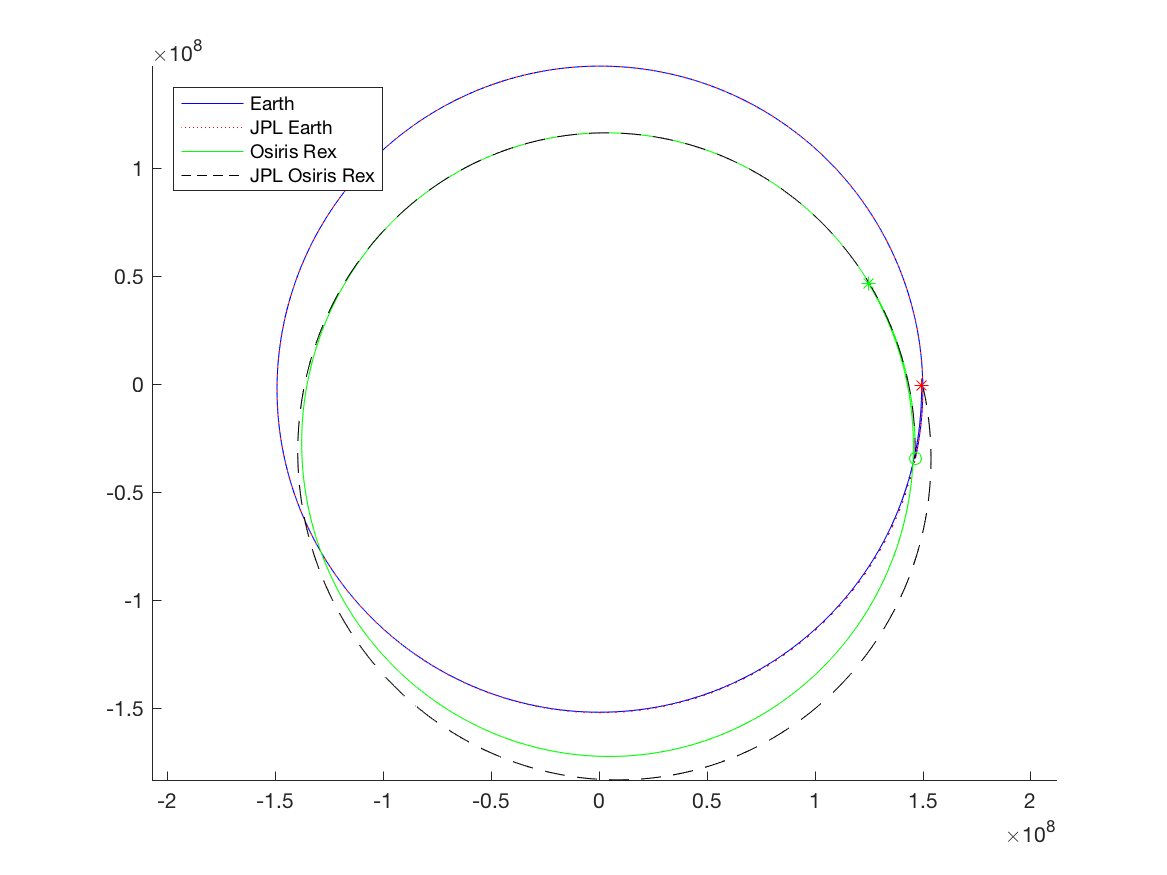
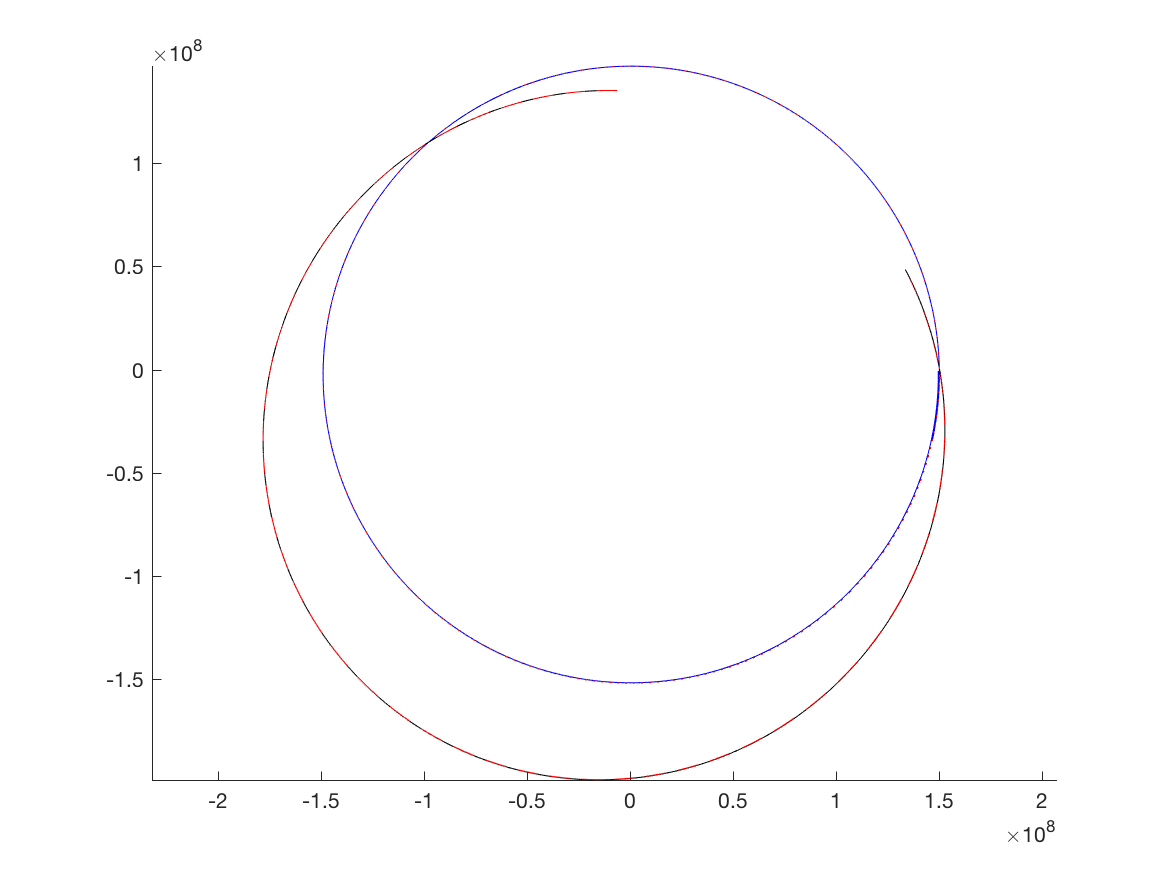
Added analysis and messed with plotting

diff --git a/project.m b/project.m
@@ -108,32 +108,40 @@ Bennu_v0 = VE_Bennu(1,:); %km/s
 OR_x0 = E_OR(1,:); %km
 OR_v0 = VE_OR(1,:); %km/s
 
-hold on; axis equal;
+figure;axis equal;  hold on;
 %h1 = plot(Sun_pos(:,1),Sun_pos(:,2),'r','DisplayName','Sun');
 %plot(Sun_x0(1),Sun_x0(2),'r*');
 %plot(Sun_pos(end,1),Sun_pos(end,2),'ro');
-h2 = plot(Earth_pos(:,1),Earth_pos(:,2),'b','DisplayName','Earth');
-h3 = plot(E_Earth(1:379,1),E_Earth(1:379,2),':r','DisplayName','JPL Earth');
+plot3(Earth_pos(:,1),Earth_pos(:,2),Earth_pos(:,3),'b','DisplayName','Earth');
+plot3(E_Earth(1:379,1),E_Earth(1:379,2),E_Earth(1:379,3),':r','DisplayName','JPL Earth');
 %plot(Earth_x0(1),Earth_x0(2),'b*');
-plot(Earth_pos(end,1),Earth_pos(end,2),'r*');
-%plot(Jupiter_pos(:,1),Jupiter_pos(:,2),'r');
-%plot(E_Jupiter(1:379,1),E_Jupiter(1:379,2),'--b');
-%h3 = plot(Bennu_pos(:,1),Bennu_pos(:,2),'k','DisplayName','Bennu');
-%plot(E_Bennu(1:379,1),E_Bennu(1:379,2),'--r');
-%plot(Bennu_x0(1),Bennu_x0(2),'k*');
-%plot(Bennu_pos(end,1),Bennu_pos(end,2),'ko');
-h4 = plot(OR_pos(:,1),OR_pos(:,2),'g','DisplayName','Osiris Rex');
-h5 = plot(E_OR(1:379,1),E_OR(1:379,2),'--k','DisplayName','JPL Osiris Rex');
-plot(OR_x0(1),OR_x0(2),'go');
-plot(OR_pos(end,1),OR_pos(end,2),'g*');
-legend([h2 h3 h4 h5],'Location','Northwest');
+% plot(Earth_pos(end,1),Earth_pos(end,2),'r*');
+% %plot(Jupiter_pos(:,1),Jupiter_pos(:,2),'r');
+% %plot(E_Jupiter(1:379,1),E_Jupiter(1:379,2),'--b');
+%h3 = plot3(Bennu_pos(:,1),Bennu_pos(:,2),Bennu_pos(:,3),'k','DisplayName','Bennu');
+%plot3(E_Bennu(1:379,1),E_Bennu(1:379,2),E_Bennu(1:379,3),'--r');
+% %plot3(Bennu_x0(1),Bennu_x0(2),'k*');
+% %plot3(Bennu_pos(end,1),Bennu_pos(end,2),'ko');
+% h4 = plot(OR_pos(:,1),OR_pos(:,2),'g','DisplayName','Osiris Rex');
+% plot(OR_pos(145,1),OR_pos(145,2),'b*');
+% h5 = plot(E_OR(1:379,1),E_OR(1:379,2),'--k','DisplayName','JPL Osiris Rex');
+% plot(OR_x0(1),OR_x0(2),'go');
+% plot(OR_pos(end,1),OR_pos(end,2),'g*');
+% legend([h2 h3 h4 h5],'Location','Northwest');
 
 print('orbits','-dpng');
+
+figure; hold on; axis equal;
+plot(E_OR(:,1),E_OR(:,2),'g');
+plot(E_Earth(:,1),E_Earth(:,2),'b');
+plot(E_Bennu(:,1),E_Bennu(:,2),'k');
 
 %% Analyzing
 r = zeros(size(OR_pos,1),1);
 for k = 1:size(OR_pos,1)
-    r(k) = norm(OR_pos(k) - Earth_pos(k));
+    r(k,1) = norm(OR_pos(k,:));
+    r(k,2) = norm(E_OR(k,:));
+    r(k,3) = abs((r(k,1)-r(k,2))/r(k,2).*100);
 end
 test = r < 1e4;
 v = [];
